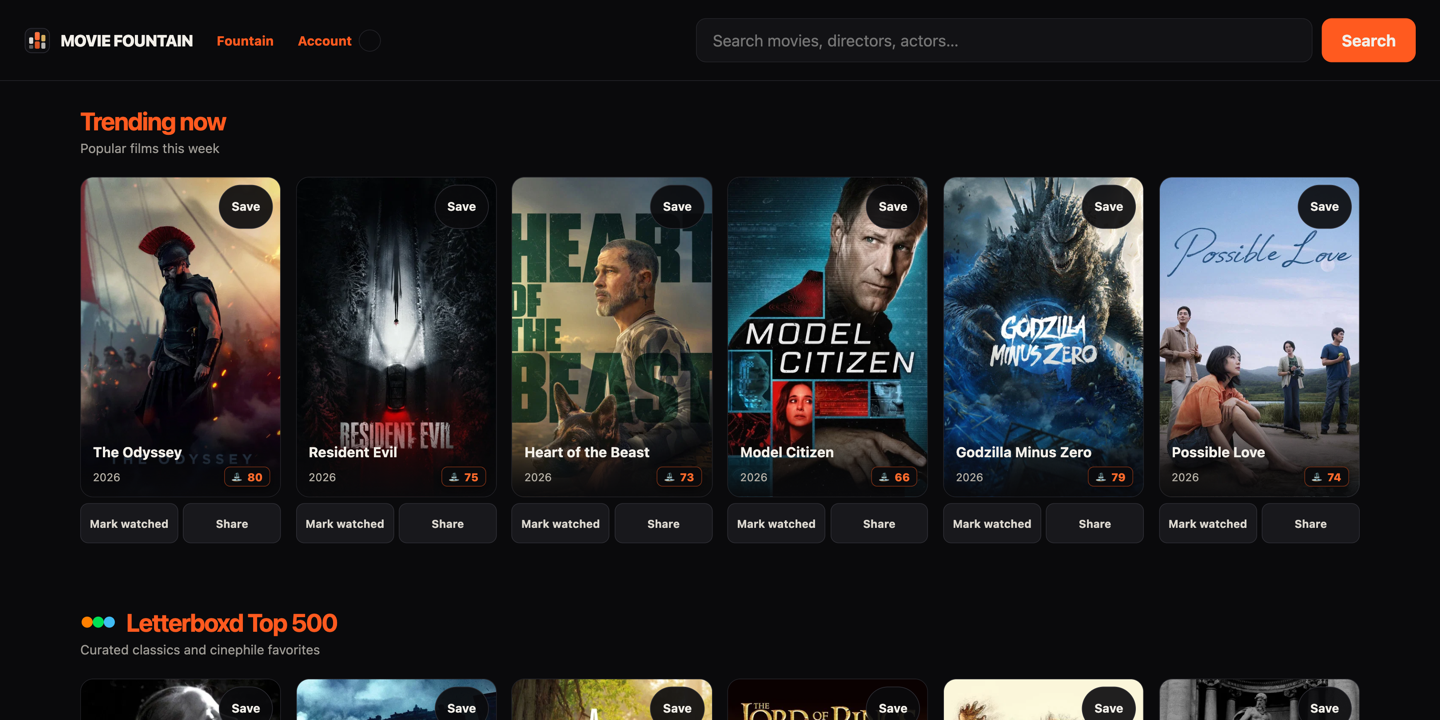
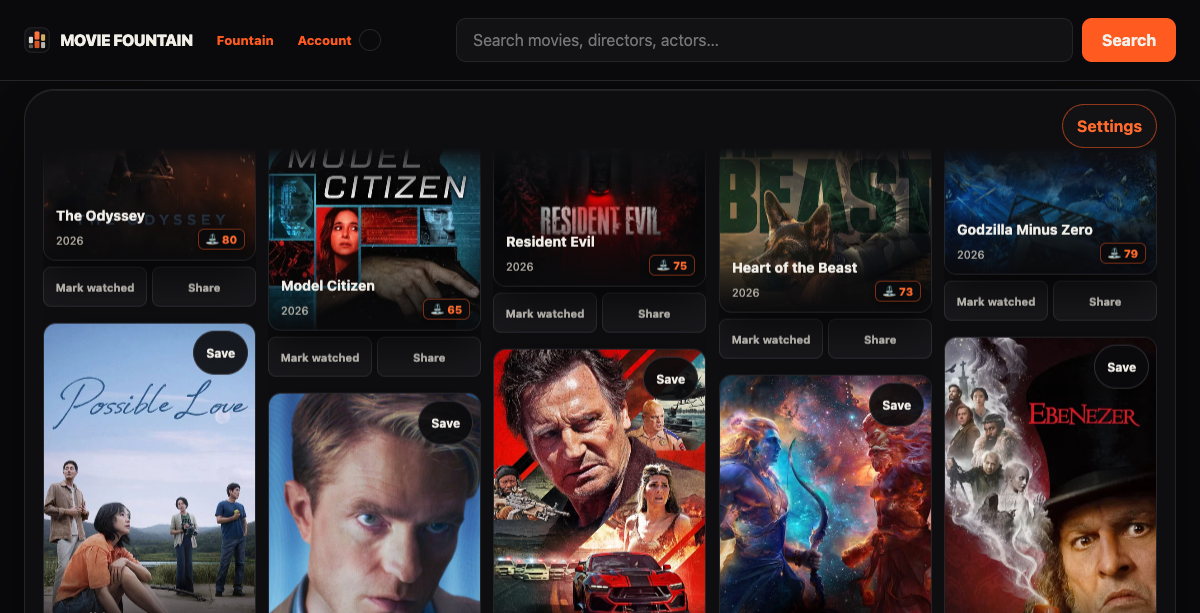
docs: add animated fountain stream hero GIF and update discovery stream screenshot

diff --git a/README.md b/README.md
@@ -1,5 +1,5 @@
 <p align="center">
-  <img src="docs/hero.png" alt="Movie Fountain — Live Hero Showcase" width="100%">
+  <img src="docs/hero-fountain.gif" alt="Movie Fountain — Live Animated Discovery Stream" width="100%">
 </p>
 
 # 🍿 Movie Fountain
@@ -66,7 +66,7 @@ All with **zero accounts, zero ads, zero trackers, and zero telemetry**.
 
 ### 1. Continuous Fountain Discovery Stream
 
-The core experience of Movie Fountain is an uninterrupted, horizontally moving stream of curated cinematic posters.
+The core experience of Movie Fountain is an uninterrupted, vertically flowing stream of curated cinematic posters.
 
 <p align="center">
   <img src="docs/screenshots/fountain-flow.png" alt="Movie Fountain Continuous Flow" width="95%">
